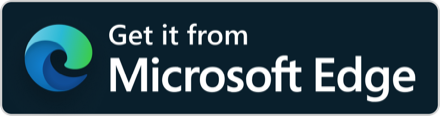
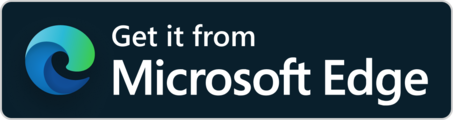
docs(readme): sharp, matching store badges; Android note; less internal detail
- All four badges from each store's own artwork, saved at 120px tall in
  docs/badges and shown at 60 (Chrome a little bigger for its white frame);
  order Chrome, App Store, Edge, Firefox
- A Note under the badges: on iPhone and iPad Focus changes Safari, not the
  apps, and Focus for Android on Google Play changes apps
- "What the Extension Does" in Ulrik's words
- Dropped the release-process and changelog-style links from Documentation

diff --git a/README.md b/README.md
@@ -10,10 +10,15 @@ Digital Habits: Focus is a browser extension that makes distracting websites les
 
 It is made by the not-for-profit [Centre for Digital Habits](https://digitalhabits.org) and [backed by research](https://arxiv.org/pdf/2001.04180.pdf) at the universities of Oxford, Copenhagen and Maastricht.
 
-<a href='https://apps.apple.com/gb/app/redd-focus-hide-distractions/id1660218371'><img height=58 alt='Download on the App Store' src='https://developer.apple.com/assets/elements/badges/download-on-the-app-store.svg'/></a>
-<a href='https://chromewebstore.google.com/detail/redd-focus-hide-distracti/hhblkhfdjijdinijakbmcpkmdfhoadcd'><img height=58 alt='Available in the Chrome Web Store' src='https://developer.chrome.com/static/docs/webstore/branding/image/UV4C4ybeBTsZt43U4xis.png'/></a>
-<a href='https://microsoftedge.microsoft.com/addons/detail/digital-habits-focus/gmjfgjdhnhcegfelcddbdljdffiaepam'><img height=58 alt='Get it from Microsoft Edge' src='docs/badges/get-it-from-microsoft-edge.png'/></a>
-<a href='https://addons.mozilla.org/firefox/addon/digitalhabits-focus/'><img height=58 alt='Get the add-on for Firefox' src='https://blog.mozilla.org/addons/files/2020/04/get-the-addon-fx-apr-2020.svg'/></a>
+<!-- Badges: each store's own artwork, saved at 120px tall and shown at 60
+     (Chrome's a little bigger, as its white frame makes it look smaller). -->
+<a href='https://chromewebstore.google.com/detail/redd-focus-hide-distracti/hhblkhfdjijdinijakbmcpkmdfhoadcd'><img width=219 alt='Available in the Chrome Web Store' src='docs/badges/available-in-the-chrome-web-store.png'/></a>
+<a href='https://apps.apple.com/gb/app/redd-focus-hide-distractions/id1660218371'><img width=180 alt='Download on the App Store' src='docs/badges/download-on-the-app-store.png'/></a>
+<a href='https://microsoftedge.microsoft.com/addons/detail/digital-habits-focus/gmjfgjdhnhcegfelcddbdljdffiaepam'><img width=227 alt='Get it from Microsoft Edge' src='docs/badges/get-it-from-microsoft-edge.png'/></a>
+<a href='https://addons.mozilla.org/firefox/addon/digitalhabits-focus/'><img width=172 alt='Get the add-on for Firefox' src='docs/badges/get-the-add-on-for-firefox.png'/></a>
+
+> [!NOTE]
+> On iPhone and iPad, the extension changes how sites look in Safari. It cannot change the apps. To change apps on Android, for example to make them easier to handle with ADHD, use our sister app [Digital Habits: Focus for Android](https://play.google.com/store/apps/details?id=net.kollnig.greasemilkyway) on Google Play.
 
 ## Demo
 
@@ -21,17 +26,13 @@ It is made by the not-for-profit [Centre for Digital Habits](https://digitalhabi
 
 ## What the Extension Does
 
-Everywhere you go online, something tries to grab your attention. Digital Habits: Focus lets you decide what you see.
-
-The extension can help you:
-- hide feeds, recommendations, Shorts, comments and other distracting sections, with ready-made options for YouTube, Facebook, X, Instagram, LinkedIn, Reddit, Google Search and WhatsApp Web
-- hide any part of any other website, by picking it on the page
+The extension makes it easier to control your time & attention online, by letting you:
+- hide distracting elements, like algorithmic feeds, Shorts, or comments, with ready-made options for YouTube, Facebook, X, Instagram, LinkedIn, Reddit, Google Search and WhatsApp Web
+- hide custom elements on any website
 - make a website greyscale, so it is less tempting
 - add a delay before a website opens, with a message that asks what you came to do
 - redirect a website to somewhere else
 - lock your settings, so changing them takes a short wait
-
-On iPhone and iPad, the extension changes how sites look in Safari. It cannot change the apps.
 
 ## How It Works
 
@@ -54,8 +55,7 @@ In Chrome, Edge and Safari, it sends one anonymous count a day, with an ID that 
 ## Documentation
 
 - General project overview: this README
-- Release notes: [`changelog.md`](changelog.md), written as [`changelog-style.md`](changelog-style.md) describes
-- Releases and store uploads: [`docs/app-store-ci.md`](docs/app-store-ci.md)
+- Release notes: [`changelog.md`](changelog.md)
 - Built-in options for each site: [`Shared (Extension)/Resources/selectors.js`](Shared%20(Extension)/Resources/selectors.js)
 - Security: [`SECURITY.md`](SECURITY.md)
 
